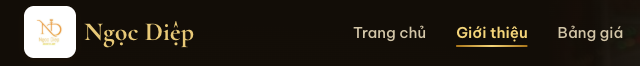
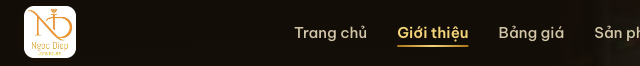
update

diff --git a/index.html b/index.html
@@ -79,7 +79,7 @@
           <button type="button" class="hdr__menu js-open-menu" aria-label="Mở menu">
             <svg class="i" style="width:35px;height:35px" stroke-width="2"><use href="#i-menu"/></svg>
           </button>
-          <a href="#top" class="hdr__logo-m" aria-label="Hiệu Vàng Ngọc Diệp - Trang chủ"><img src="/assets/img/logo-header.png" alt="Ngọc Diệp Jewelry" width="256" height="256" /></a>
+          <a href="#top" class="hdr__logo-m" aria-label="Hiệu Vàng Ngọc Diệp - Trang chủ"><img src="/assets/img/logo-header.jpg" alt="Ngọc Diệp Jewelry" width="469" height="469" /></a>
           <a href="#bang-gia" class="btn-gold btn-gold--sm js-scroll">Bảng Giá Vàng</a>
         </div>
       </header>
@@ -96,8 +96,7 @@
 
           <!-- Desktop (>=1024): menu ngang đầy đủ -->
           <a href="#top" class="hdr__brand js-scroll" data-target="body" aria-label="Hiệu Vàng Ngọc Diệp - Trang chủ">
-            <img class="hdr__logo" src="/assets/img/logo-header.png" alt="Ngọc Diệp Jewelry" width="256" height="256" />
-            <span class="hdr__brand-text">Ngọc Diệp</span>
+            <img class="hdr__logo" src="/assets/img/logo-header.jpg" alt="Ngọc Diệp Jewelry" width="469" height="469" />
           </a>
           <nav class="topnav" id="topnav" aria-label="Menu chính">
             <ul class="topnav__list">

diff --git a/san-pham/index.html b/san-pham/index.html
@@ -79,7 +79,7 @@
           <button type="button" class="hdr__menu js-open-menu" aria-label="Mở menu">
             <svg class="i" style="width:35px;height:35px" stroke-width="2"><use href="#i-menu"/></svg>
           </button>
-          <a href="/" class="hdr__logo-m" aria-label="Hiệu Vàng Ngọc Diệp - Trang chủ"><img src="/assets/img/logo-header.png" alt="Ngọc Diệp Jewelry" width="256" height="256" /></a>
+          <a href="/" class="hdr__logo-m" aria-label="Hiệu Vàng Ngọc Diệp - Trang chủ"><img src="/assets/img/logo-header.jpg" alt="Ngọc Diệp Jewelry" width="469" height="469" /></a>
           <a href="/#bang-gia" class="btn-gold btn-gold--sm">Bảng Giá Vàng</a>
         </div>
       </header>
@@ -96,8 +96,7 @@
 
           <!-- Desktop (>=1024): menu ngang đầy đủ -->
           <a href="/" class="hdr__brand" aria-label="Hiệu Vàng Ngọc Diệp - Trang chủ">
-            <img class="hdr__logo" src="/assets/img/logo-header.png" alt="Ngọc Diệp Jewelry" width="256" height="256" />
-            <span class="hdr__brand-text">Ngọc Diệp</span>
+            <img class="hdr__logo" src="/assets/img/logo-header.jpg" alt="Ngọc Diệp Jewelry" width="469" height="469" />
           </a>
           <nav class="topnav" id="topnav" aria-label="Menu chính">
             <ul class="topnav__list">

diff --git a/gioi-thieu/index.html b/gioi-thieu/index.html
@@ -85,8 +85,7 @@
 
           <!-- Desktop (>=1024): menu ngang đầy đủ -->
           <a href="/" class="hdr__brand" aria-label="Hiệu Vàng Ngọc Diệp - Trang chủ">
-            <img class="hdr__logo" src="/assets/img/logo-header.png" alt="Ngọc Diệp Jewelry" width="256" height="256" />
-            <span class="hdr__brand-text">Ngọc Diệp</span>
+            <img class="hdr__logo" src="/assets/img/logo-header.jpg" alt="Ngọc Diệp Jewelry" width="469" height="469" />
           </a>
           <nav class="topnav" id="topnav" aria-label="Menu chính">
             <ul class="topnav__list">
